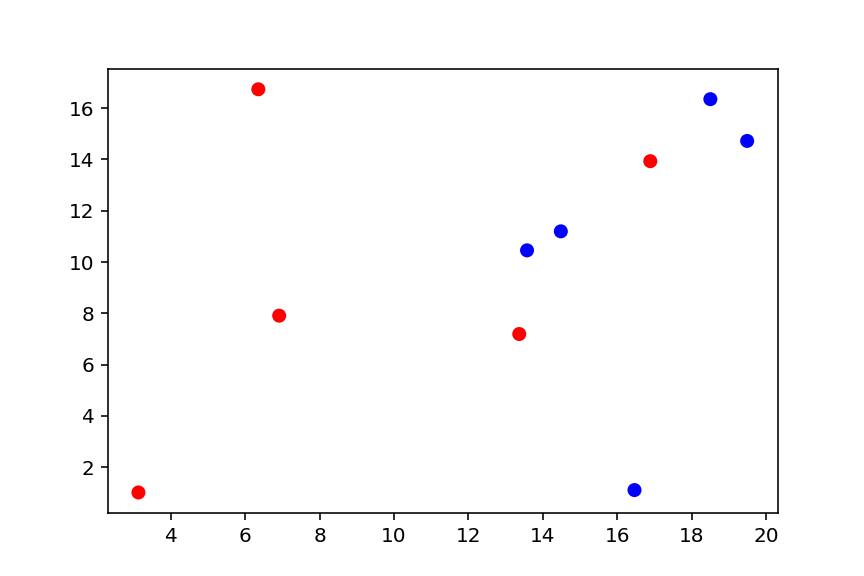
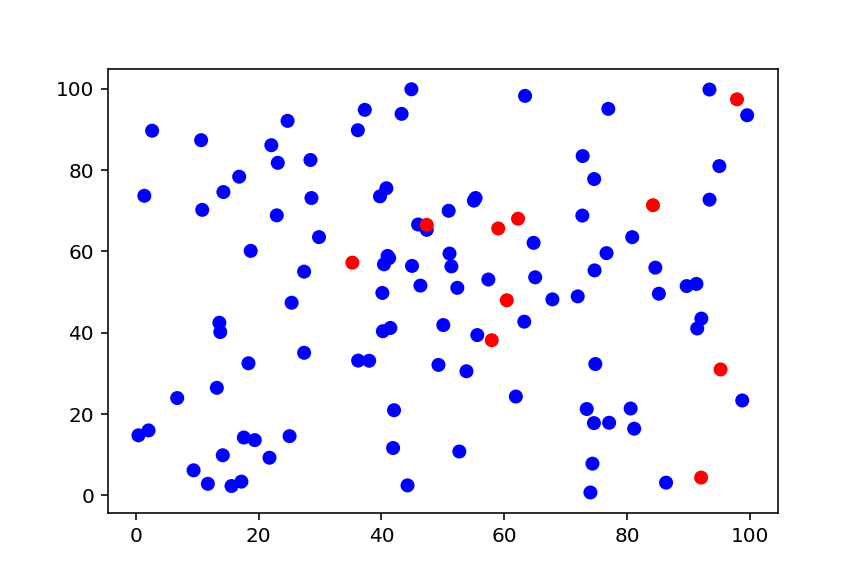
restliche commits

diff --git a/entity_class.py b/entity_class.py
@@ -318,7 +318,6 @@ class entity:
         Args: 
             self (entity with mode == "H)
         """
-        if self.mode != "H": raise Warning("kNN was initiated for a Zombie!!!")
         self.change_pq(prio_q()) # initiate a new pq for the next step, otherwise it will grow with each step 
         self.kNN_loop_periodic_bounds() 
 
@@ -362,12 +361,14 @@ class entity:
                 if p != self.idx_all_ents: # compare indeces of both entities, to make sure we don't compare an entity with itself
                     curr_ent = curr_cell.all_ents[p]
                     d = self.calculate_dist2_entity(curr_ent, offset)
-                    if d <= (1000 * self.param_dict["awareness_r_H"])**2:
+                    if self.mode == "Z":
+                        awareness = self.param_dict["awareness_r_Z"]
+                        
+                    elif self.mode == "H": 
+                        awareness = self.param_dict["awareness_r_H"]
+                        
+                    if d <= (awareness)**2:
                         self.pq.push((d, p))
-                    
-                    # if the entity were looking at is a zombie, it gets the distance and the index of the human in its pq
-                    if curr_ent.mode == "Z" and d<= (1000 * self.param_dict["awareness_r_Z"])**2:
-                        curr_ent.pq.push((d,self.idx_all_ents))
 
 
         else:
@@ -375,9 +376,9 @@ class entity:
             dist2_c2 = curr_cell.d_cells[1].calc_dist2_cell_entity(self, offset)
 
              # check if distance to daughter cell is (partially) within the awareness radius, if so do recursive call for daughter cell
-            if dist2_c1 <= (1000 * self.param_dict["awareness_r_H"])**2:
+            if dist2_c1 <= (self.param_dict["awareness_r_H"])**2:
                 self.neighbor_search(curr_cell.d_cells[0], offset)
-            if dist2_c2 <= (1000 * self.param_dict["awareness_r_H"])**2:
+            if dist2_c2 <= (self.param_dict["awareness_r_H"])**2:
                 self.neighbor_search(curr_cell.d_cells[1], offset)
         
     #--------------------ZOMBIE-WALK-START-RAPHAEL-----------------------------
@@ -445,7 +446,6 @@ class entity:
         Returns:
             None: Updates self.change_velocity directly.
         """
-        
         #get the direction from last round
         old_direction = self.get_direction()
         
@@ -494,23 +494,31 @@ class entity:
         Returns:
             None: Updates self.change_alerted and self change_pos_alerter directly.
         """
-        
-        #------------calcs if other entity withing range------------
-        ent_idx = self.pq.heap[0][1]
-        
-        #get position of this nearest entity by using his index
-        pos_nearest_entity = entities[ent_idx].pos
-        
-        #get the distance
-        distance_between_entities = self.get_distance(pos_nearest_entity) 
-
-
-        if distance_between_entities <= awareness_r:
-
-            self.change_alerted(True)
+        #---test---
+        nearest_human = 0
+        heap = self.pq.heap
+        for i in range(len(heap)):
+            idx = heap[i][1]
+            if entities[idx].mode == "H": 
+                nearest_human = entities[idx]
+                break
+        if  nearest_human != 0:
+            #------------calcs if other entity withing range------------
+            #ent_idx = self.pq.heap[0][1]
             
-            #update position of alerter
-            self.change_pos_alerter(pos_nearest_entity) 
+            #get position of this nearest entity by using his index
+            pos_nearest_entity = nearest_human.pos #entities[ent_idx].pos
+            
+            #get the distance
+            distance_between_entities = self.get_distance(pos_nearest_entity) 
+    
+    
+            if distance_between_entities <= awareness_r:
+    
+                self.change_alerted(True)
+                
+                #update position of alerter
+                self.change_pos_alerter(pos_nearest_entity) 
             
 
             

diff --git a/run.py b/run.py
@@ -5,14 +5,14 @@ import numpy as np
 from step_update import *
 from anim_func import *
 
-xbounds = (0.0,20.0)
-ybounds = (0.,20.)
+xbounds = (0.0,100.0)
+ybounds = (0.,100.)
 
-param_dict = create_parameter_dict(n_H=5, n_Z=5,timestep=.08, n_steps=50, 
-                                   smooth_rand_walk = 0.5,
+param_dict = create_parameter_dict(n_H=100, n_Z=10,timestep=.08, n_steps=150, 
+                                   smooth_rand_walk = 0.3,
                                    bite_r_Z_H = 0.2,
                                    walking_speed_Z = 3.,
-                                   max_speed_Z = 15., max_speed_H = 5.,
+                                   max_speed_Z = 15., max_speed_H = 10.,
                                    awareness_r_Z = 0.9,awareness_r_H = 0.9,
                                    x_bounds=np.array(xbounds), y_bounds=np.array(ybounds))
 

diff --git a/step_update.py b/step_update.py
@@ -15,12 +15,9 @@ def step_update(entities, root_cell, param_dict):
     """
 
     for entity in entities:
-        #maybe this helps
-        entity.alerted = False
-        entity.infected = False
-        
+
         if entity.mode == "Z":
-            # entity.kNN()   # update the prioq in the entity with the ones that are 
+            entity.kNN()   # update the prioq in the entity with the ones that are 
                                             # sorrounding it at the moment
             entity.zombie_walk(entities, param_dict)            # update velocity and direction of zombie walk based on 
                                             # prioq

diff --git a/Initialization_functions.py b/Initialization_functions.py
@@ -195,7 +195,7 @@ def Initialize_entities(param_dict):
                                        np.random.uniform(param_dict["y_bounds"][0], param_dict["y_bounds"][1]))),
                                        param_dict,
                                        i) 
-            for i in range(param_dict["n_Z"])])
+            for i in range(param_dict["n_H"], param_dict["n_H"] +param_dict["n_Z"])])
     
     return ents
 
